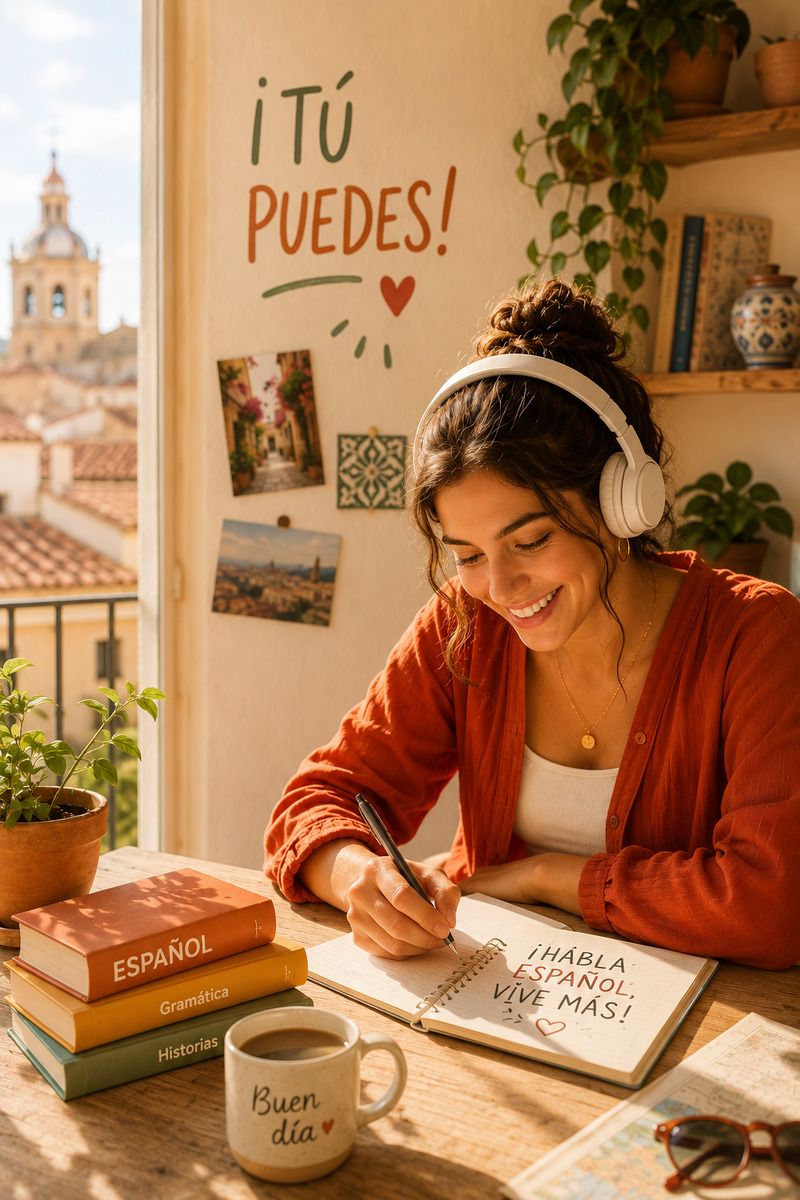
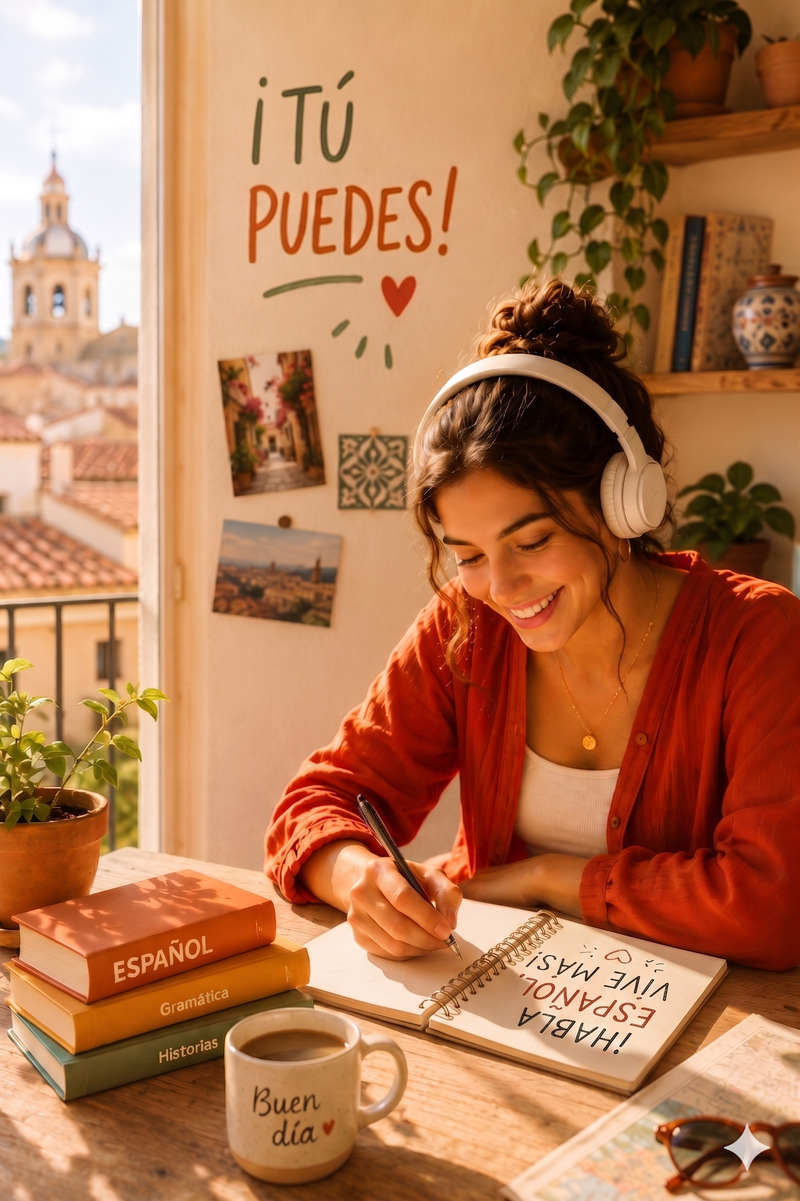
refactor: standardize language detection using getDisplayLanguage utility and update default locale to English

diff --git a/lib/auth/app-user.ts b/lib/auth/app-user.ts
@@ -8,7 +8,6 @@ export type AppUser = {
   id: string;
   email: string | null;
   createdAt: string | null;
-  displayLanguage: 'ko' | 'en';
   source: 'supabase';
 };
 
@@ -22,15 +21,18 @@ export async function getAppUserFromServer(): Promise<AppUser | null> {
   const profile = await getUserProfileById(userId);
   if (!profile) return null;
 
-  const displayLanguage = (cookieStore.get(LANG_COOKIE)?.value as 'ko' | 'en') || 'ko';
-
   return {
     id: userId,
     email: profile.email,
     createdAt: profile.created_at,
-    displayLanguage,
     source: 'supabase',
   };
+}
+
+export async function getDisplayLanguage(): Promise<'ko' | 'en'> {
+  const cookieStore = await cookies();
+  const lang = cookieStore.get(LANG_COOKIE)?.value;
+  return (lang === 'ko' ? 'ko' : 'en');
 }
 
 export async function getAppUserFromRequest(
@@ -42,13 +44,10 @@ export async function getAppUserFromRequest(
   const profile = await getUserProfileById(userId);
   if (!profile) return null;
 
-  const displayLanguage = (request.cookies.get(LANG_COOKIE)?.value as 'ko' | 'en') || 'ko';
-
   return {
     id: userId,
     email: profile.email,
     createdAt: profile.created_at,
-    displayLanguage,
     source: 'supabase',
   };
 }

diff --git a/app/layout.tsx b/app/layout.tsx
@@ -1,5 +1,5 @@
 import { cookies } from 'next/headers';
-import { getAppUserFromServer } from '@/lib/auth/app-user';
+import { getAppUserFromServer, getDisplayLanguage } from '@/lib/auth/app-user';
 
 import { Inter, Noto_Sans_KR } from 'next/font/google'; 
 import Header from '@/components/layout/Header'; 
@@ -8,8 +8,8 @@ import './globals.css';
 import type { Metadata } from 'next';
 
 export const metadata: Metadata = {
-  title: 'HolaLingo - 즐거운 스페인어 학습 플랫폼',
-  description: 'AI 튜터와 함께 실시간 대화하며 배우는 나만의 스페인어 마스터 플랫폼, HolaLingo',
+  title: 'HolaLingo - Fun Spanish Learning Platform',
+  description: 'Your own Spanish master platform where you learn through real-time conversations with AI tutors, HolaLingo',
 };
 
 // 폰트 설정
@@ -30,8 +30,7 @@ export default async function RootLayout({
 }: {
   children: React.ReactNode;
 }) {
-  const cookieStore = await cookies();
-  const lang = (cookieStore.get('lb_display_language')?.value === 'en' ? 'en' : 'ko');
+  const lang = await getDisplayLanguage();
 
   return (
     <html lang={lang}>

diff --git a/app/page.tsx b/app/page.tsx
@@ -1,5 +1,5 @@
 import { cookies } from 'next/headers';
-import { getAppUserFromServer } from '@/lib/auth/app-user';
+import { getAppUserFromServer, getDisplayLanguage } from '@/lib/auth/app-user';
 import { DEFAULT_LEARNING_CATEGORY_NAME } from '@/lib/learning-category';
 import { listVideos, listAllUserCategoryVideos } from '@/lib/supabase/services/videos';
 import { listEduVideos } from '@/lib/supabase/services/edu-videos';
@@ -19,9 +19,7 @@ import { listBundles } from '@/lib/supabase/services/bundles';
 import InteractiveLearningSection from '@/components/home/InteractiveLearningSection';
 
 export default async function HomePage() {
-  const cookieStore = await cookies();
-  const guestLang = cookieStore.get('lb_display_language')?.value;
-  const lang = (guestLang === 'en' ? 'en' : 'ko') as 'ko' | 'en';
+  const lang = await getDisplayLanguage();
 
   const user = await getAppUserFromServer();
   const userCount = await countAuthUsers();

diff --git a/app/admin/bundles/page.tsx b/app/admin/bundles/page.tsx
@@ -1,5 +1,5 @@
 import { redirect } from 'next/navigation';
-import { getAppUserFromServer } from '@/lib/auth/app-user';
+import { getAppUserFromServer, getDisplayLanguage } from '@/lib/auth/app-user';
 import { isSuperAdmin } from '@/lib/auth/super-admin';
 import { listBundles } from '@/lib/supabase/services/bundles';
 import AdminSidebar from '../AdminSidebar';
@@ -7,6 +7,7 @@ import BundlesManager from './BundlesManager';
 
 export default async function BundlesPage() {
   const user = await getAppUserFromServer();
+  const lang = await getDisplayLanguage();
   
   if (!user) {
     redirect('/auth/login?redirectTo=/admin/bundles');
@@ -22,7 +23,7 @@ export default async function BundlesPage() {
   
   return (
     <>
-      <AdminSidebar userEmail={user.email ?? ''} language={user.displayLanguage || 'ko'} />
+      <AdminSidebar userEmail={user.email ?? ''} language={lang} />
       <BundlesManager initialBundles={bundles} />
     </>
   );

diff --git a/app/admin/channels/page.tsx b/app/admin/channels/page.tsx
@@ -1,7 +1,7 @@
 import Link from 'next/link';
 import Image from 'next/image';
 import { redirect } from 'next/navigation';
-import { getAppUserFromServer } from '@/lib/auth/app-user';
+import { getAppUserFromServer, getDisplayLanguage } from '@/lib/auth/app-user';
 import { isSuperAdmin } from '@/lib/auth/super-admin';
 import { listEduVideoChannelsWithVideoCount } from '@/lib/supabase/services/edu-video-channels';
 import { listLanguages } from '@/lib/supabase/services/languages';
@@ -10,6 +10,7 @@ import { Plus, Edit, ImageIcon } from 'lucide-react';
 
 export default async function AdminChannelsPage() {
   const user = await getAppUserFromServer();
+  const lang = await getDisplayLanguage();
   if (!user) redirect('/auth/login?redirectTo=/admin/channels');
 
   const isAdminUser = await isSuperAdmin({ userId: user.id, email: user.email ?? null });
@@ -23,7 +24,7 @@ export default async function AdminChannelsPage() {
 
   return (
     <>
-      <AdminSidebar userEmail={user.email ?? ''} language={user.displayLanguage || 'ko'} />
+      <AdminSidebar userEmail={user.email ?? ''} language={lang} />
       <div className="min-h-screen bg-gray-50 dark:bg-background md:ml-64 p-8">
         <div className="max-w-6xl mx-auto">
           <div className="flex justify-between items-center mb-6">

diff --git a/app/admin/languages/page.tsx b/app/admin/languages/page.tsx
@@ -1,5 +1,5 @@
 import { redirect } from 'next/navigation';
-import { getAppUserFromServer } from '@/lib/auth/app-user';
+import { getAppUserFromServer, getDisplayLanguage } from '@/lib/auth/app-user';
 import { isSuperAdmin } from '@/lib/auth/super-admin';
 import { listLanguagesByEnglishName } from '@/lib/supabase/services/languages';
 import LanguagesManager from './LanguagesManager';
@@ -8,6 +8,7 @@ import AdminSidebar from '../AdminSidebar';
 export default async function LanguagesPage() {
   // 인증 확인
   const user = await getAppUserFromServer();
+  const lang = await getDisplayLanguage();
   
   if (!user) {
     redirect('/auth/login?redirectTo=/admin/languages');
@@ -24,7 +25,7 @@ export default async function LanguagesPage() {
   
   return (
     <>
-      <AdminSidebar userEmail={user.email ?? ''} language={user.displayLanguage || 'ko'} />
+      <AdminSidebar userEmail={user.email ?? ''} language={lang} />
       <LanguagesManager initialLanguages={languages.map((language) => ({
         id: language.id,
         name_en: language.name_en ?? '',

diff --git a/app/admin/page.tsx b/app/admin/page.tsx
@@ -1,5 +1,5 @@
 import { redirect } from 'next/navigation';
-import { getAppUserFromServer } from '@/lib/auth/app-user';
+import { getAppUserFromServer, getDisplayLanguage } from '@/lib/auth/app-user';
 import { isSuperAdmin } from '@/lib/auth/super-admin';
 import AdminDashboard from './AdminDashboard';
 import AdminSidebar from './AdminSidebar';
@@ -7,6 +7,7 @@ import AdminSidebar from './AdminSidebar';
 export default async function AdminPage() {
   // 인증 확인
   const user = await getAppUserFromServer();
+  const lang = await getDisplayLanguage();
   
   if (!user) {
     redirect('/auth/login?redirectTo=/admin');
@@ -21,7 +22,7 @@ export default async function AdminPage() {
   
   return (
     <>
-      <AdminSidebar userEmail={user.email ?? ''} language={user.displayLanguage || 'ko'} />
+      <AdminSidebar userEmail={user.email ?? ''} language={lang} />
       <AdminDashboard />
     </>
   );

diff --git a/app/admin/sentences/page.tsx b/app/admin/sentences/page.tsx
@@ -1,5 +1,5 @@
 import { redirect } from 'next/navigation';
-import { getAppUserFromServer } from '@/lib/auth/app-user';
+import { getAppUserFromServer, getDisplayLanguage } from '@/lib/auth/app-user';
 import { isSuperAdmin } from '@/lib/auth/super-admin';
 import { listSentences } from '@/lib/supabase/services/sentences';
 import SentencesManager, { Sentence, Language } from './SentencesManager';
@@ -8,6 +8,7 @@ import AdminSidebar from '../AdminSidebar';
 export default async function SentencesPage() {
   // 인증 확인
   const user = await getAppUserFromServer();
+  const lang = await getDisplayLanguage();
   
   if (!user) {
     redirect('/auth/login?redirectTo=/admin/sentences');
@@ -34,7 +35,7 @@ export default async function SentencesPage() {
   
   return (
     <>
-      <AdminSidebar userEmail={user.email ?? ''} language={user.displayLanguage || 'ko'} />
+      <AdminSidebar userEmail={user.email ?? ''} language={lang} />
       <SentencesManager initialSentences={sentences} languages={[]} />
     </>
   );

diff --git a/app/admin/videos/page.tsx b/app/admin/videos/page.tsx
@@ -1,6 +1,6 @@
 import Link from 'next/link';
 import { redirect } from 'next/navigation';
-import { getAppUserFromServer } from '@/lib/auth/app-user';
+import { getAppUserFromServer, getDisplayLanguage } from '@/lib/auth/app-user';
 import { isSuperAdmin } from '@/lib/auth/super-admin';
 import { listEduVideoChannels } from '@/lib/supabase/services/edu-video-channels';
 import { listEduVideos } from '@/lib/supabase/services/edu-videos';
@@ -14,6 +14,7 @@ import VideoCard from './VideoCard';
 export default async function AdminVideosPage() {
   // 인증 확인
   const user = await getAppUserFromServer();
+  const lang = await getDisplayLanguage();
   
   if (!user) {
     redirect('/auth/login?redirectTo=/admin/videos');
@@ -59,7 +60,7 @@ export default async function AdminVideosPage() {
 
   return (
     <>
-      <AdminSidebar userEmail={user.email ?? ''} language={user.displayLanguage || 'ko'} />
+      <AdminSidebar userEmail={user.email ?? ''} language={lang} />
       <div className="min-h-screen bg-gray-50 dark:bg-background md:ml-64 p-8">
         <div className="max-w-7xl mx-auto">
           <div className="flex justify-between items-center mb-6">

diff --git a/app/admin/words/page.tsx b/app/admin/words/page.tsx
@@ -1,5 +1,5 @@
 import { redirect } from 'next/navigation';
-import { getAppUserFromServer } from '@/lib/auth/app-user';
+import { getAppUserFromServer, getDisplayLanguage } from '@/lib/auth/app-user';
 import { isSuperAdmin } from '@/lib/auth/super-admin';
 import { listLanguages } from '@/lib/supabase/services/languages';
 import { listWords } from '@/lib/supabase/services/words';
@@ -9,6 +9,7 @@ import AdminSidebar from '../AdminSidebar';
 export default async function WordsPage() {
   // 인증 확인
   const user = await getAppUserFromServer();
+  const lang = await getDisplayLanguage();
   
   if (!user) {
     redirect('/auth/login?redirectTo=/admin/words');
@@ -38,7 +39,7 @@ export default async function WordsPage() {
   
   return (
     <>
-      <AdminSidebar userEmail={user.email ?? ''} language={user.displayLanguage || 'ko'} />
+      <AdminSidebar userEmail={user.email ?? ''} language={lang} />
       <WordsManager initialWords={words} languages={languages} />
     </>
   );

diff --git a/app/profile/page.tsx b/app/profile/page.tsx
@@ -1,4 +1,4 @@
-import { getAppUserFromServer } from '@/lib/auth/app-user';
+import { getAppUserFromServer, getDisplayLanguage } from '@/lib/auth/app-user';
 import Link from 'next/link';
 import { Card, CardHeader, CardTitle, CardContent, CardDescription } from '@/components/ui/card';
 import { cookies } from 'next/headers';
@@ -31,8 +31,7 @@ const translations = {
 // 프로필 페이지
 export default async function ProfilePage() {
   const user = await getAppUserFromServer();
-  const cookieStore = await cookies();
-  const lang = (cookieStore.get('lb_display_language')?.value === 'en' ? 'en' : 'ko') as 'ko' | 'en';
+  const lang = await getDisplayLanguage();
 
   if (!user) {
     return (

diff --git a/app/videos/[id]/page.tsx b/app/videos/[id]/page.tsx
@@ -1,6 +1,6 @@
 import { notFound } from 'next/navigation';
 import EduVideoLearningClient from '@/components/edu-video/EduVideoLearningClient';
-import { getAppUserFromServer } from '@/lib/auth/app-user';
+import { getAppUserFromServer, getDisplayLanguage } from '@/lib/auth/app-user';
 import { getVideoWithTranscripts, incrementVideoViewCount } from '@/lib/supabase/services/videos';
 import { getEduVideoProgress } from '@/lib/supabase/services/edu-video-progress';
 import { cookies } from 'next/headers';
@@ -13,8 +13,7 @@ interface VideoPageProps {
 
 export default async function VideoPage({ params }: VideoPageProps) {
   const { id } = await params;
-  const cookieStore = await cookies();
-  const lang = (cookieStore.get('lb_display_language')?.value === 'en' ? 'en' : 'ko') as 'ko' | 'en';
+  const lang = await getDisplayLanguage();
 
   const { video, transcripts } = await getVideoWithTranscripts(id);
   if (!video) {